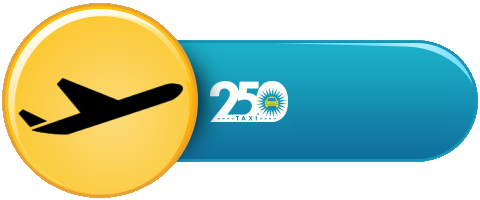
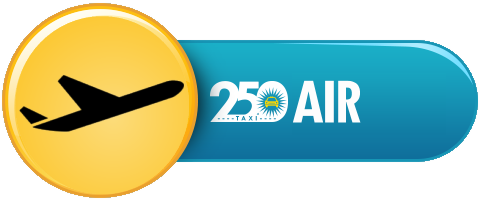
250

diff --git a/services.html b/services.html
@@ -31,6 +31,7 @@ function letsgo() {
     background-image: url(reg/kigali_blur.jpg);
     background-size: cover;
     background-repeat: no-repeat;
+    background-attachment: fixed;
     background-color: black;
     font-family: Roboto, sans-serif;
 	font-size: 18px;
@@ -48,9 +49,9 @@ function letsgo() {
     }
     #loginregister img {
     width: 80%;
-    margin-left: 10%;
+    margin-left: 5%;
     max-width: 250px;
-    margin-bottom: 25px;
+    margin-bottom: 10px;
     }
     #loadingindicator {
 	background-color: #E2E2E2;
@@ -67,6 +68,14 @@ function letsgo() {
 	margin-top: 100px;
 	width: 160px;
     }
+    #selectserviceheader{
+        background-color: #1493B3;
+        padding:5px;
+        text-align: center;
+        font-family: Roboto;
+        font-size: 90%;
+        color: white;
+    }
 </style>
 
 </head>
@@ -76,33 +85,35 @@ function letsgo() {
 </div>
 
 <body>
+    
+<div id="selectserviceheader">Please choose a service</div>
 
 <div id="loginregister">
     
-<img class="animated fadeInLeft"
+<img class="animated zoomIn"
      style="-webkit-animation-delay: 1.2s;"
      onclick="letsgo();"
      src="reg/start_taxi.png">
-
-<img class="animated fadeInLeft"
+    
+<img class="animated zoomIn"
      style="-webkit-animation-delay: 1.4s;"
      onclick="alert('Coming soon...');"
-     src="reg/start_luxury.png">
-    
-<img class="animated fadeInLeft"
-     style="-webkit-animation-delay: 1.6s;"
-     onclick="alert('Coming soon...');"
      src="reg/start_moto.png">
-    
-<img class="animated fadeInLeft"
+
+<img class="animated zoomIn"
      style="-webkit-animation-delay: 1.6s;"
      onclick="alert('Coming soon...');"
-     src="reg/start_air.png">
+     src="reg/start_luxury2.png">
     
-<img class="animated fadeInLeft"
-     style="-webkit-animation-delay: 1.6s;"
+<img class="animated zoomIn"
+     style="-webkit-animation-delay: 1.8s;"
      onclick="alert('Coming soon...');"
      src="reg/start_courier.png">
+    
+<img class="animated zoomIn"
+     style="-webkit-animation-delay: 2s;"
+     onclick="alert('Coming soon...');"
+     src="reg/start_air.png">
     
 
     
